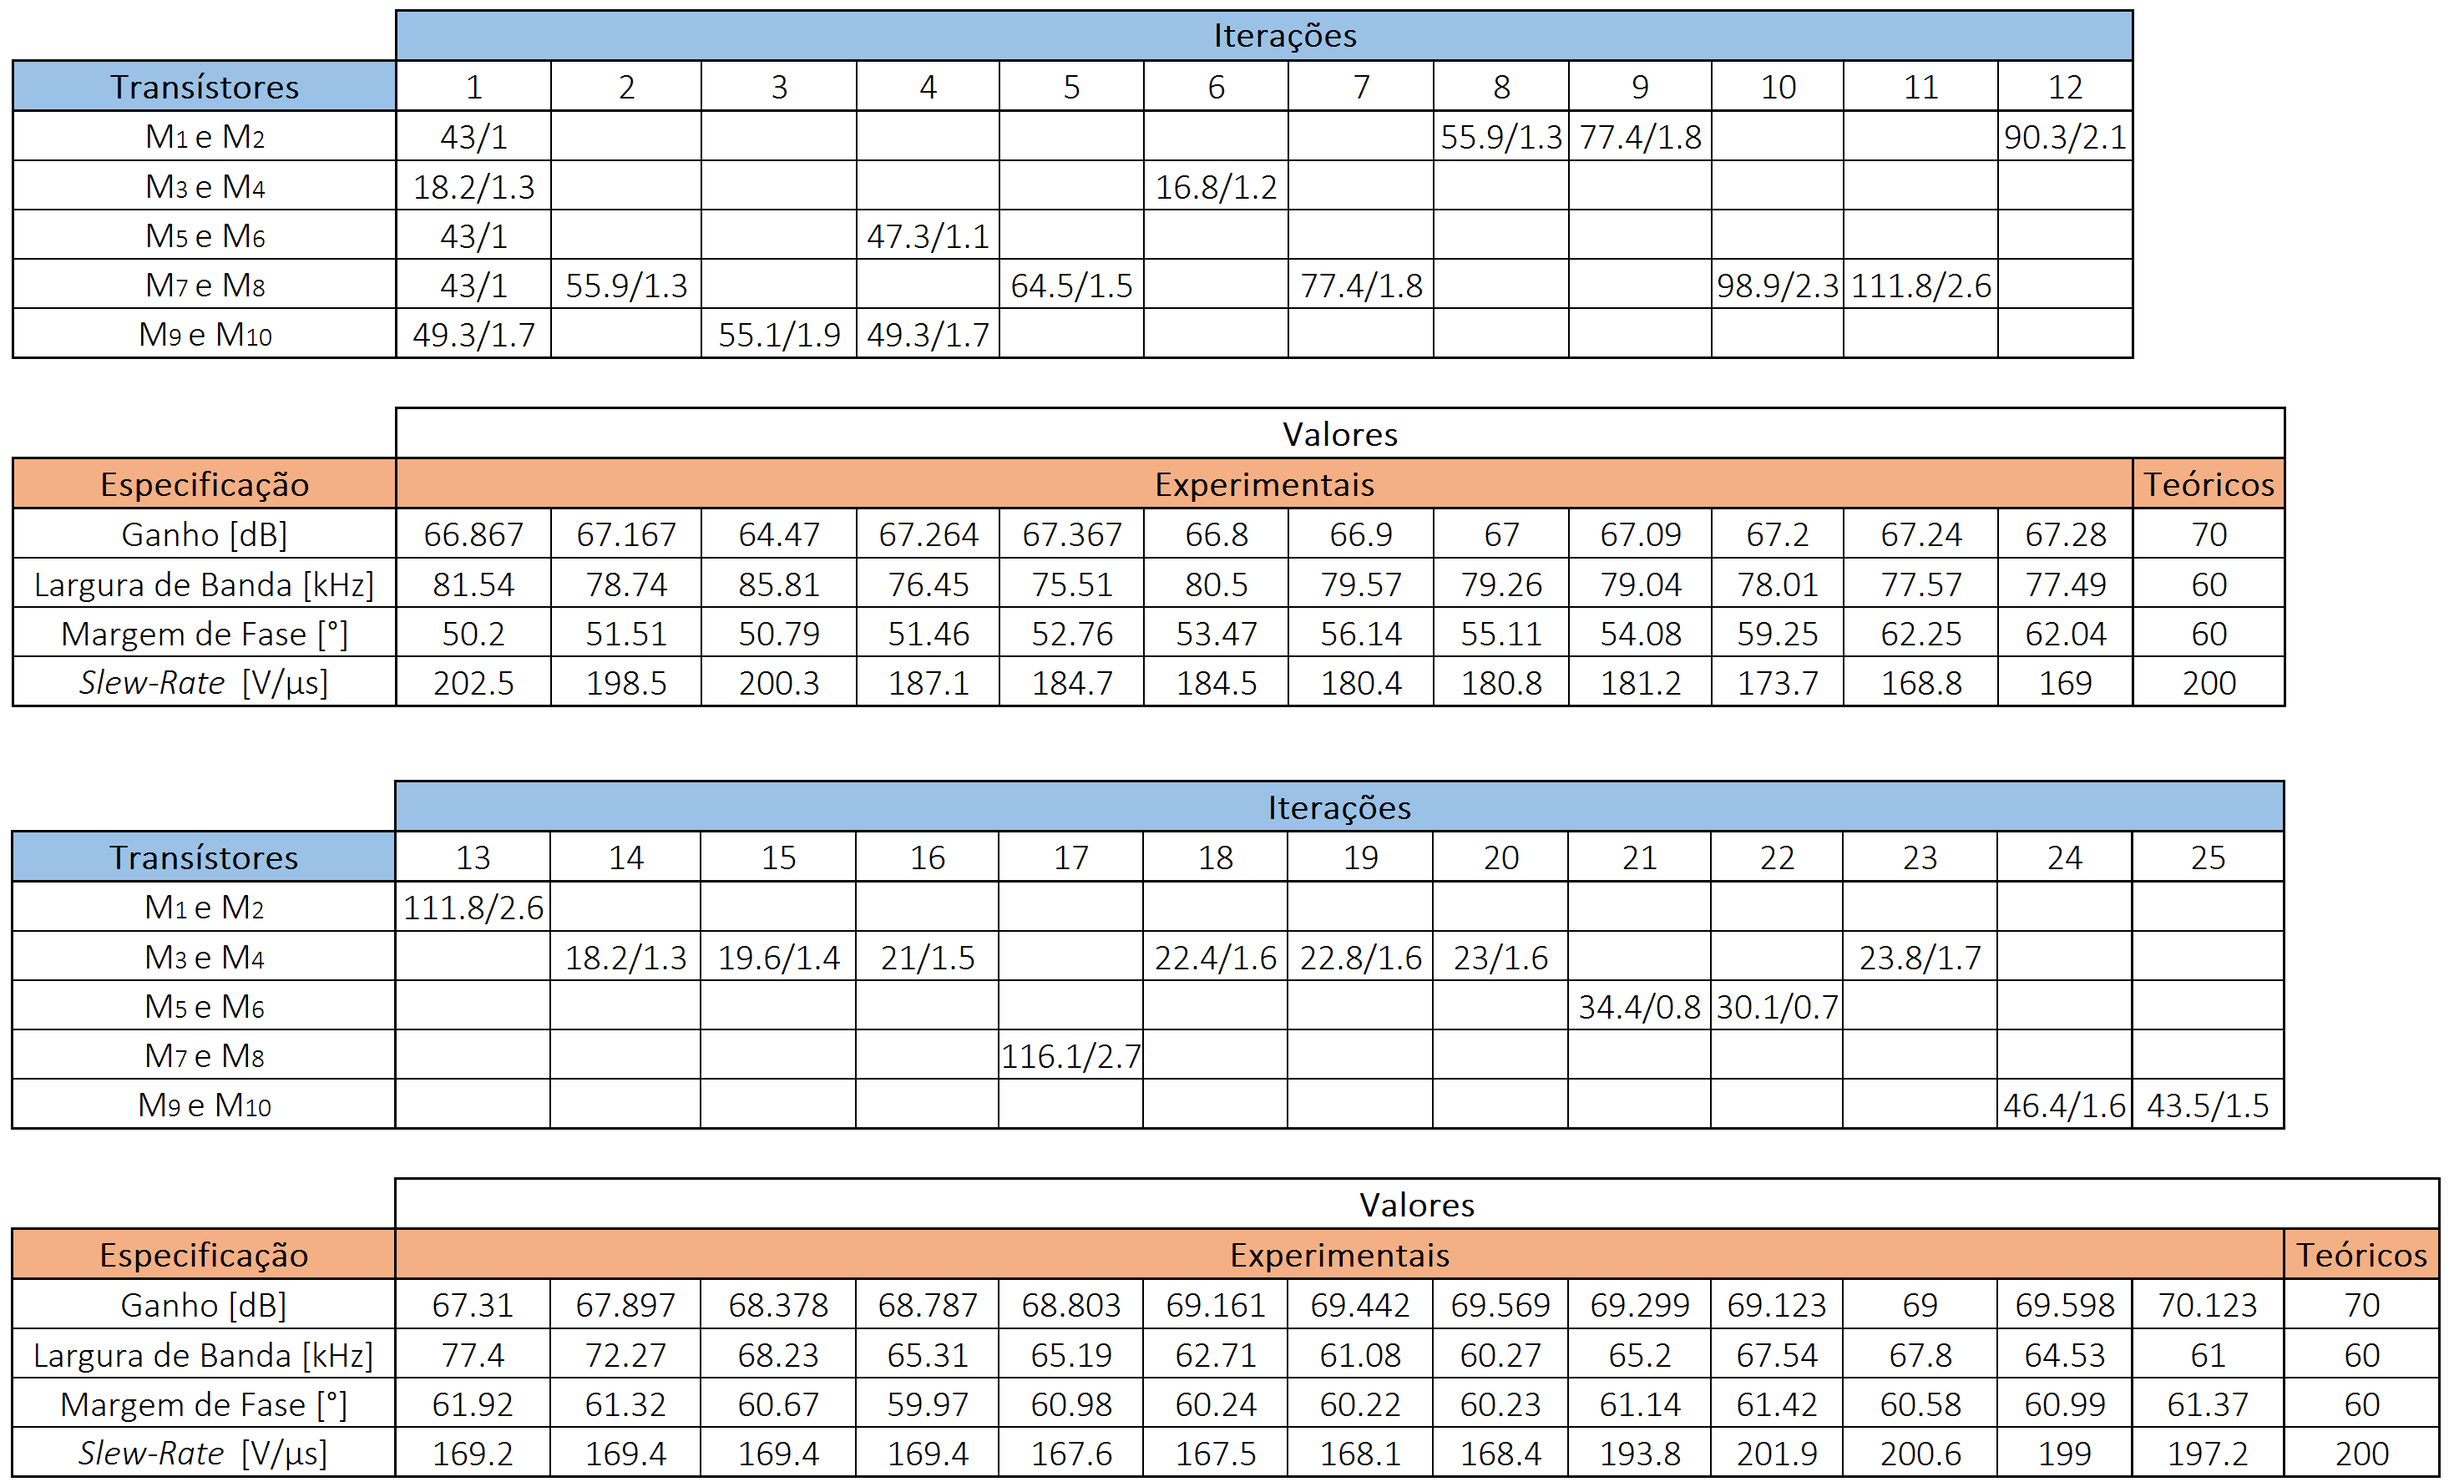
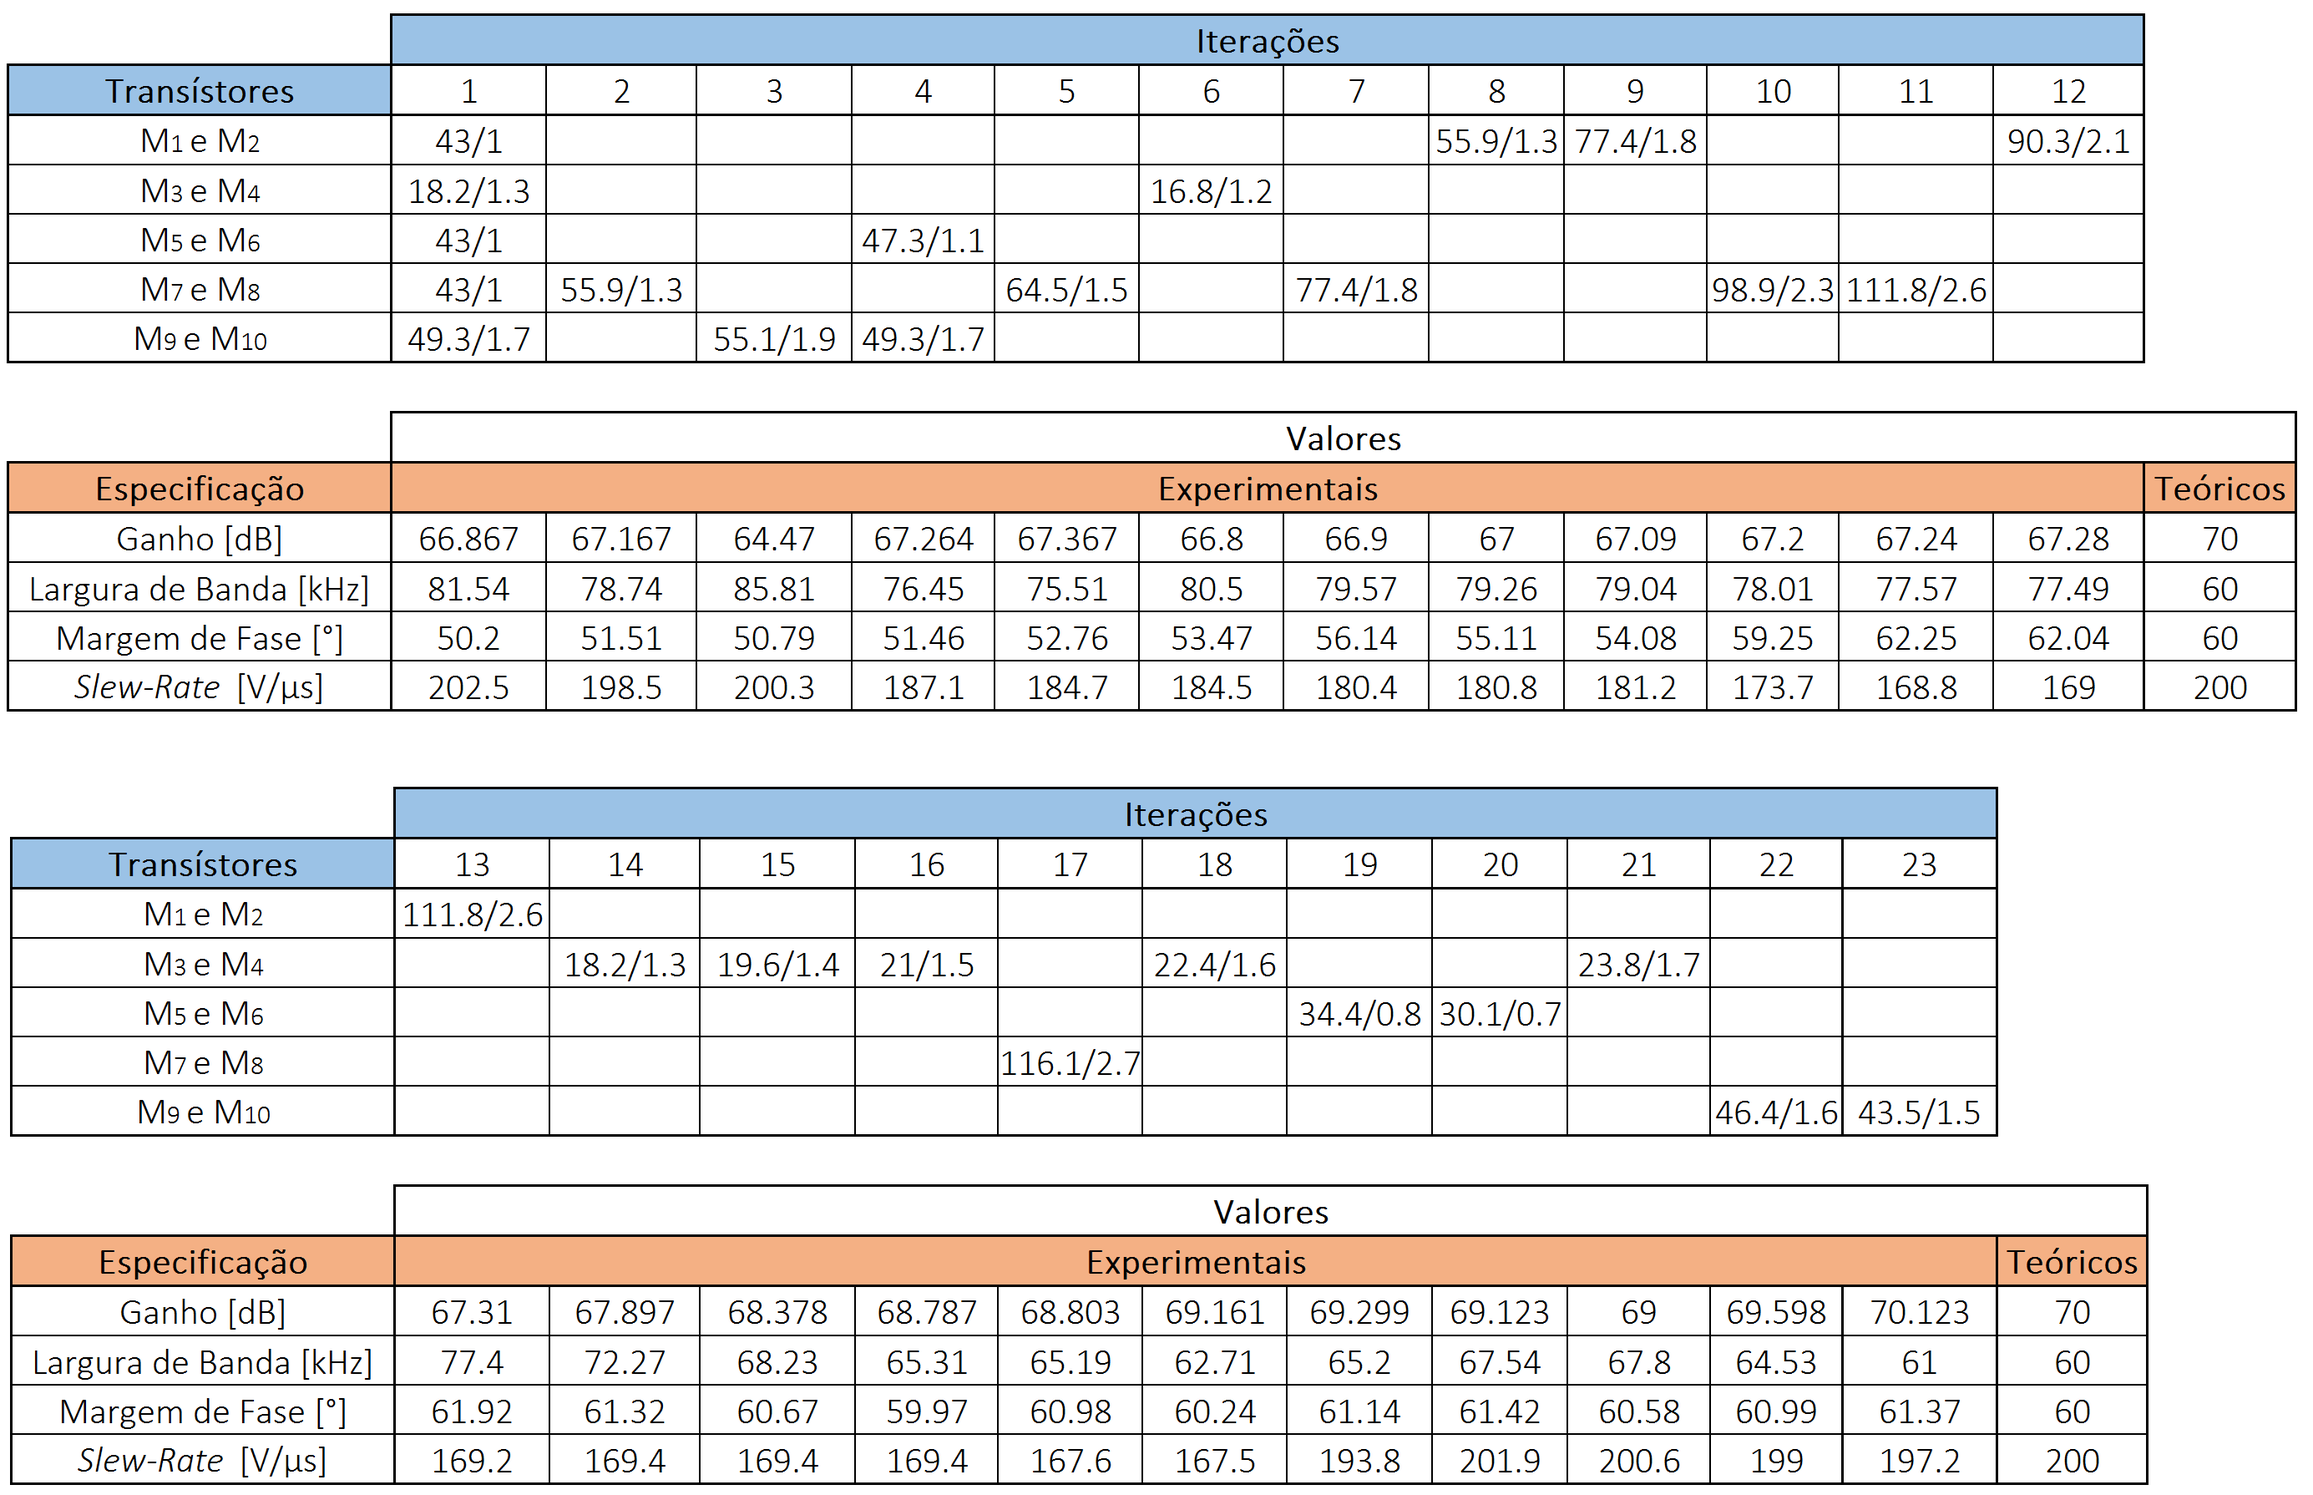
conclusao. area. Cbudget de 5u

diff --git a/middle target/sia_proj2.tex b/middle target/sia_proj2.tex
@@ -499,16 +499,14 @@ Analisando o circuito observa-se que a resistência $R_{2}$ depende da resistên
 R_{9} = \left(g_{m_2}r_{o_2}\right)//\left(g_{m_3}r_{o_3}r_{o_5}r_{o_7}\right);
 \end{equation}
 
-\todo{falar agora de como se juntou toda esta logica para produzir a tabela}
 Em primeiro lugar, decidiu-se obter a \textit{slew-rate} desejada, não comprometendo as restantes especificações. A solução encontrada foi aumentar a corrente que passa nos transístores M\textsubscript{9} e M\textsubscript{10} aumentado os seus valores de $W$ e $L$, ou seja, as suas dimensões, assim como as dos transístores M\textsubscript{3} e M\textsubscript{4} - esta alteração está associada ao efeito de segunda ordem referido anteriormente. 
 
 Com a \textit{slew-rate} próxima do valor pretendido seguiu-se o objectivo de reduzir a largura de banda e aumentar o ganho. Observando as equações anteriores, deduz-se que o aumento de $W$ e de $L$ dos transístores M\textsubscript{7} e M\textsubscript{8} traduz-se num aumento de $r_o$ e numa diminuição de $f_p$, o que implica um aumento do ganho - iteração 2 na tabela seguinte. Obteve-se, porém, em contrapartida uma diminuição da \textit{slew-rate} que foi corrigida com o aumento de $W$ e $L$ dos transístores M\textsubscript{9} e M\textsubscript{10} - iteração 3 da tabela. Verificou-se que esta alteração não originava melhorias ao circuito, pelo contrário, aumentava a largura de banda e provocava uma diminuição do ganho.
 
 Partindo da iteração 2, continuou-se a reduzir a largura de banda e aumentar o ganho, aumentando o $W$ e $L$ dos transístores M\textsubscript{5}, M\textsubscript{6}, M\textsubscript{7} e M\textsubscript{8}, aumentando então o seus valores de $r_o$ -  iteração 4 e 5. 
 
-De seguida, optou-se por aumentar a margem de  fase e, para tal, diminuiu-se o valor de $W$ e $L$ dos transístores M\textsubscript{3} e M\textsubscript{4} o que diminui o $V_{DB_9}$ aumentando a margem de fase - iteração 6. Continuou-se com o objectivo de aumentar a margem de fase,           
-\info{pode ajudar a explicar - na tabela estava: na iteraçao 3 houve uma ma alteraçao e voltou-se atras. na iteraçao 21 houve um ajuste de gm3 e gm4}
-	
+De seguida, optou-se por aumentar a margem de  fase e, para tal, diminuiu-se o valor de $W$ e $L$ dos transístores M\textsubscript{3} e M\textsubscript{4} o que diminui o $V_{DB_9}$ aumentando a margem de fase - iteração 6. Continuou-se com o objectivo de aumentar a margem de fase, \todo{continuar}
+         
 Os rácios de $W/L$ que se procura manter são apresentados na seguinte tabela.
 
 \begin{table}[H]
@@ -590,16 +588,17 @@ Do circuito anterior vem:
 \end{equation}
 
 \vspace{1mm}
-que permite concluir que a relação entre as duas correntes é controlada pela dimensão dos transístores. Pretende-se que $I_{BIAS}$ seja 5 $\mu$A e que $I_{OUT}$ seja 100 $\mu$A. Efectuou-se o ajuste nas dimensões de M\textsubscript{11\textsubscript{1}}, mantendo as de M\textsubscript{11\textsubscript{2}} fixas. Assim:
+que permite concluir que a relação entre as duas correntes é controlada pela dimensão dos transístores. Pretende-se que $I_{BIAS}$ seja 5 $\mu$A e que $I_{OUT}$ seja 100 $\mu$A. Efectuou-se o ajuste nas dimensões de M\textsubscript{11\textsubscript{1}}, mantendo o valor de $L$ fixo a 1 $\mu$m e mantendo também fixas as dimensões de M\textsubscript{11\textsubscript{2}}. Assim:
 
-\vspace{-3mm}
+\vspace{-2mm}
 \begin{equation}
 \frac{100}{5} = \frac{\left(86/1\right)}{\left(W/L\right)_{11_{1}}} \leftrightarrow \left(W/L\right)_{11_{1}} = \frac{86}{20} \leftrightarrow W = 4.3~\mu\text{m}.
 \end{equation}
 
 \vspace{1mm}
+Foram efectuados testes com a nova polarização do circuito, o que resultou num ajuste do valor de $W$ obtido anteriormente, ficando então M\textsubscript{11\textsubscript{1}} com uma \textit{width} de 4.9 $\mu$m. Com este ajuste a corrente que é fornecida ao par diferencial ficou definida de acordo com o pretendido.
 
-\todo{continuar esta mudanca de 100uA para 5uA}
+Face a esta alteração o \textit{budget} de corrente passou para \todo{precido de valor de current budget}
 
 \unsure{vamos tentar ajustar IBIAS2 que continua a 100uA?}
 
@@ -631,7 +630,18 @@ Como se veririca, a área obtida está bastante abaixo da especificada, que era 
 
 \section{Conclusões}
 
-\todo{sugiro: o Cadence funciona muito bem a partir de casa}
+Tal como já foi observado, todos os requisitos impostos foram cumpridos, alguns deles com resultados melhores do que esperado pelo que se pode concluir que o dimensionamento foi realizado com sucesso.
+
+O processo utilizado começou, em primeira instância, por uma análise do circuito de forma a compreender o seu funcionamento assim como perceber quais os principais blocos que o constituem. Após esta análise iniciou-se então o dimensionamento dos transístores constituintes, através de cálculos teóricos, utilizando a equação da corrente no dreno, a \textit{slew-rate} requerida e considerando, sempre que possível, o comprimento $L$ destes a 1 $\mu$m obtendo depois a largura $W$ através de diversas relações matemáticas.
+
+Com estes valores iniciais, começou-se então o processo de simulação no Cadence. Em primeira análise, o único requisito que se cumpria era o \textit{budget} de corrente pelo que seria necessário melhorar todos os outros.
+Tinha-se então o ponto de partida pelo que se deu inicio à tarefa de estudar quais as melhores formas de se influenciar cada uma das especificações. A abordagem tomada foi de manter o rácio $W/L$ e olhar para as equações do ganho, da frequência do pólo dominante e da frequência do pólo não dominante de forma a compreender qual o impacto nos parâmetros de alterações nas dimensões. Com isto, é possível definir melhor quais os graus de liberdade e fica-se com uma ideia de quais as melhores acções a tomar.
+
+Com este estudo feito optou-se então por criar uma tabela de alterações do estilo ``diário de bordo'' onde se colocaram as alterações feitas e os resultados obtidos nas simulações com o Cadence. Neste processo foi-se aproximando os parâmetros obtidos dos desejados sendo que, por vezes, ao aproximar uns se piorava outros, sendo então necessário voltar a iterações anteriores. Esta abordagem foi essencial para se conseguir os resultados desejados.
+
+Por fim, obtiveram-se os valores requeridos, fazendo-se então alterações minutas de forma a obter-se os melhores resultados possíveis. Tomou-se atenção ao \textit{budget} de corrente, fazendo-se alterações nos espelhos de corrente que polarizam o circuito de forma obter o valor desejado. Fez-se também uma previsão da área a partir do Cadence, que levou a um valor bastante inferior ao dos requisitos, ficando-se assim com todas as especificações cumpridas.
+
+Ao longo deste dimensionamento aprofundaram-se os conhecimentos tanto no funcionamento da ferramenta Cadence como do \textit{workflow} do projecto de um amplificador, assim como das melhores formas de identificar como impactar os parâmetros e chegar aos objectivos impostos.
 
 \pagebreak
 
